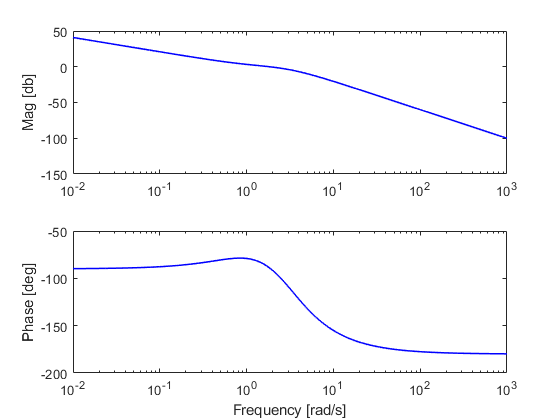
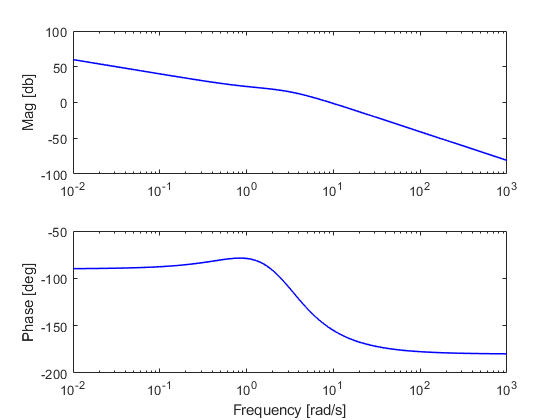
fixed qctrl documentation

diff --git a/doc/html/doc_qctrl.html b/doc/html/doc_qctrl.html
@@ -6,7 +6,7 @@
    <script type="text/javascript" src="http://cdn.mathjax.org/mathjax/latest/MathJax.js?config=TeX-AMS-MML_HTMLorMML"></script><!--
 This HTML was auto-generated from MATLAB code.
 To make changes, update the MATLAB code and republish this document.
-      --><title>Working without Control System Toolbox</title><meta name="generator" content="MATLAB 9.3"><link rel="schema.DC" href="http://purl.org/dc/elements/1.1/"><meta name="DC.date" content="2020-05-16"><meta name="DC.source" content="doc_qctrl.m"><style type="text/css">
+      --><title>Working without Control System Toolbox</title><meta name="generator" content="MATLAB 9.3"><link rel="schema.DC" href="http://purl.org/dc/elements/1.1/"><meta name="DC.date" content="2020-05-18"><meta name="DC.source" content="doc_qctrl.m"><style type="text/css">
 html,body,div,span,applet,object,iframe,h1,h2,h3,h4,h5,h6,p,blockquote,pre,a,abbr,acronym,address,big,cite,code,del,dfn,em,font,img,ins,kbd,q,s,samp,small,strike,strong,sub,sup,tt,var,b,u,i,center,dl,dt,dd,ol,ul,li,fieldset,form,label,legend,table,caption,tbody,tfoot,thead,tr,th,td{margin:0;padding:0;border:0;outline:0;font-size:100%;vertical-align:baseline;background:transparent}body{line-height:1}ol,ul{list-style:none}blockquote,q{quotes:none}blockquote:before,blockquote:after,q:before,q:after{content:'';content:none}:focus{outine:0}ins{text-decoration:none}del{text-decoration:line-through}table{border-collapse:collapse;border-spacing:0}
 
 html { min-height:100%; margin-bottom:1px; }
@@ -80,7 +80,7 @@ C =
 
 Continuous-time openQsyn QCTRL object
 
-</pre><p>The output display indicates that the parameters were correctly inserted. We notice that the pole and zero at -5 cancels. To obtain a minimal realization use <tt>minreal</tt> (as you would do in CST),</p><pre class="codeinput">C = minreal(C)
+</pre><p>The output display indicates that the parameters were correctly inserted. Note that all parameters are inseted in "dc-form", in which each pole/zere element has a dc value of zero. Hence, the dc gain of C is not the same as a CST <tt>zpk(z,p,k)</tt> which is in "hf-form" (each zero/pole element gain is zero at infinite frequency). We notice that the pole and zero at -5 cancels. To obtain a minimal realization use <tt>minreal</tt> (as you would do in CST),</p><pre class="codeinput">C = minreal(C)
 </pre><pre class="codeoutput">
 C = 
 
@@ -191,6 +191,9 @@ C = qctrl(z,p,k)
      
 %% 
 % The output display indicates that the parameters were correctly inserted.
+% Note that all parameters are inseted in "dc-form", in which each pole/zere 
+% element has a dc value of zero. Hence, the dc gain of C is not the same as
+% a CST |zpk(z,p,k)| which is in "hf-form" (each zero/pole element gain is zero at infinite frequency).  
 % We notice that the pole and zero at -5 cancels. To obtain a minimal realization
 % use |minreal| (as you would do in CST),
 

diff --git a/doc/doc_qctrl.m b/doc/doc_qctrl.m
@@ -25,6 +25,9 @@ C = qctrl(z,p,k)
      
 %% 
 % The output display indicates that the parameters were correctly inserted.
+% Note that all parameters are inseted in "dc-form", in which each pole/zere 
+% element has a dc value of zero. Hence, the dc gain of C is not the same as
+% a CST |zpk(z,p,k)| which is in "hf-form" (each zero/pole element gain is zero at infinite frequency).  
 % We notice that the pole and zero at -5 cancels. To obtain a minimal realization
 % use |minreal| (as you would do in CST),
 
